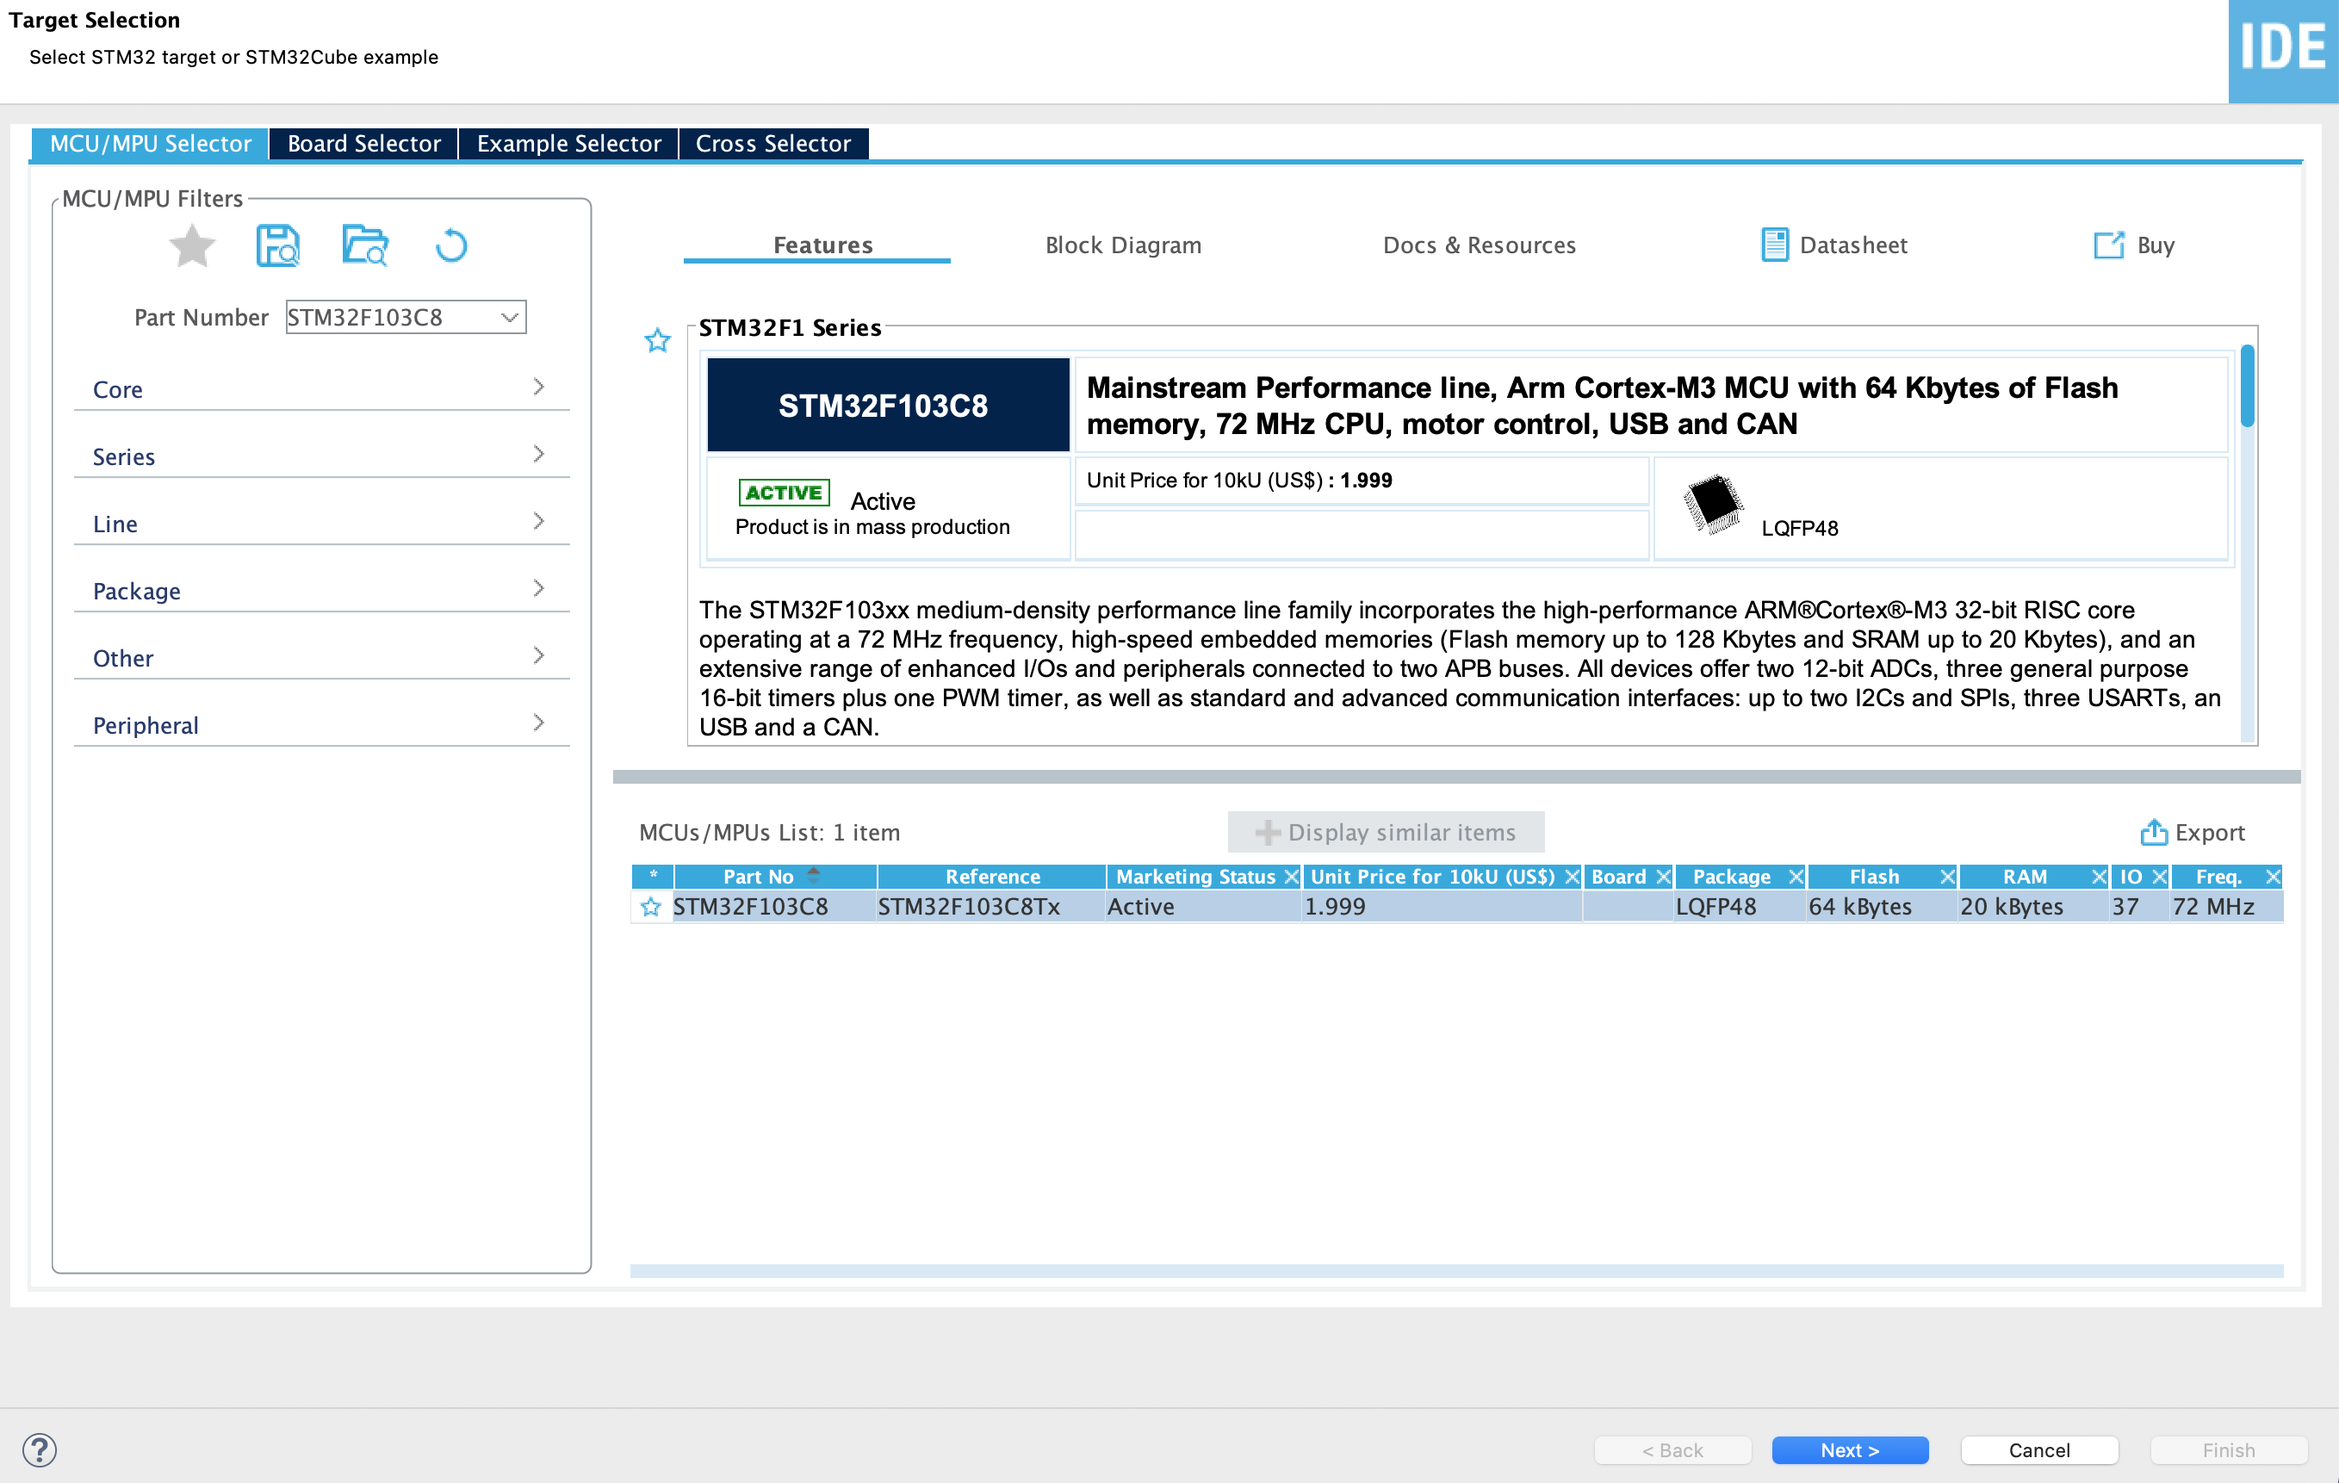
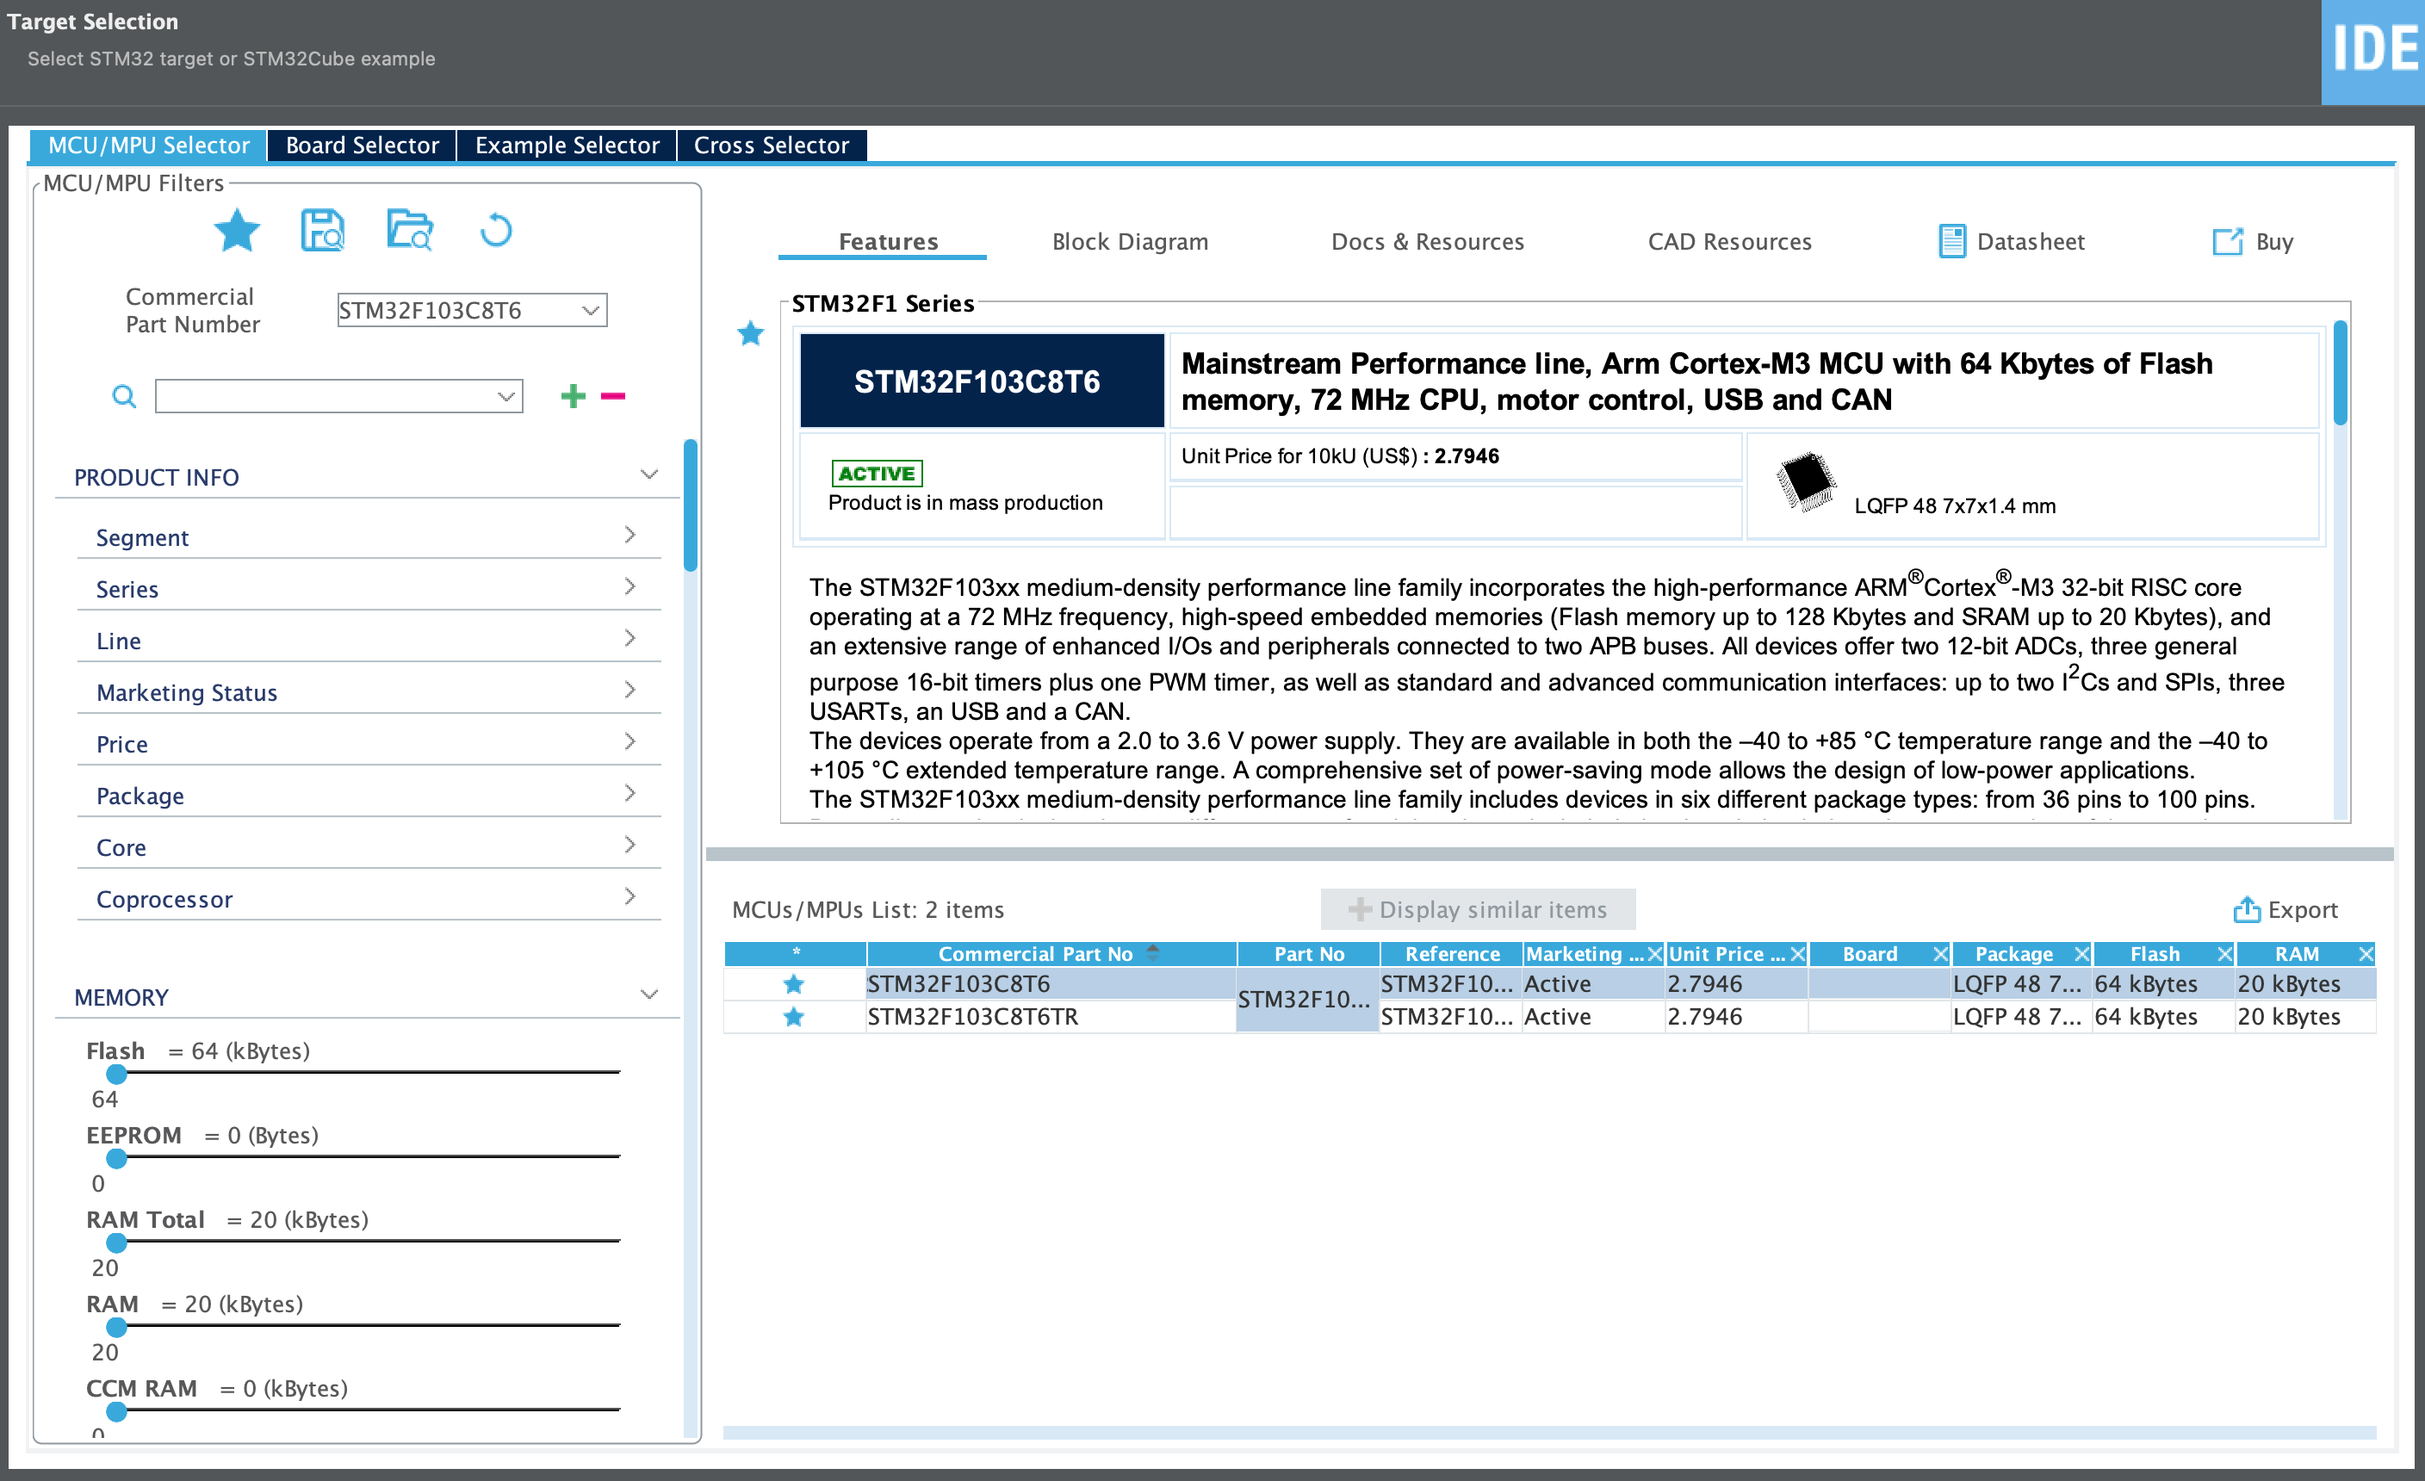
Deployed d1b9dd0 with MkDocs version: 1.4.2

diff --git a/lab1/lab1_guide/index.html b/lab1/lab1_guide/index.html
@@ -354,6 +354,26 @@
     2 连线
   </a>
   
+    <nav class="md-nav" aria-label="2 连线">
+      <ul class="md-nav__list">
+        
+          <li class="md-nav__item">
+  <a href="#21-基本连线" class="md-nav__link">
+    2.1 基本连线
+  </a>
+  
+</li>
+        
+          <li class="md-nav__item">
+  <a href="#22-跳线帽" class="md-nav__link">
+    2.2 跳线帽
+  </a>
+  
+</li>
+        
+      </ul>
+    </nav>
+  
 </li>
       
         <li class="md-nav__item">
@@ -877,6 +897,26 @@
     2 连线
   </a>
   
+    <nav class="md-nav" aria-label="2 连线">
+      <ul class="md-nav__list">
+        
+          <li class="md-nav__item">
+  <a href="#21-基本连线" class="md-nav__link">
+    2.1 基本连线
+  </a>
+  
+</li>
+        
+          <li class="md-nav__item">
+  <a href="#22-跳线帽" class="md-nav__link">
+    2.2 跳线帽
+  </a>
+  
+</li>
+        
+      </ul>
+    </nav>
+  
 </li>
       
         <li class="md-nav__item">
@@ -974,13 +1014,15 @@
 
 <h1 id="实验1指南">实验1指南<a class="headerlink" href="#实验1指南" title="Permanent link">&para;</a></h1>
 <h2 id="1-安装软件">1 安装软件<a class="headerlink" href="#1-安装软件" title="Permanent link">&para;</a></h2>
-<p>在ST公司官网下载<a href="https://www.st.com/zh/development-tools/stm32cubeide.html">STM32CubeIDE</a>。这个IDE是基于Eclipse改造的，有Windows、macOS和Linux三个版本。下载时需要注册一个st的帐号，免费的，校网邮箱可用。</p>
-<p>下载后，以默认选项安装。</p>
-<p>对于macOS，解压zip文件后，打开dmg文件，首先双击pkg文件安装ST-Link驱动，然后将app文件拖拽到Application。安装驱动时，需要在“系统偏好设置&rarr;安全性与隐私”处允许允许这个安装程序。第一次运行STM32CubeIDE时，也需要允许运行一次。</p>
+<p>具体见<a href="../warmup.md">Warm Up</a>。</p>
 <h2 id="2-连线">2 连线<a class="headerlink" href="#2-连线" title="Permanent link">&para;</a></h2>
-<p>找出4条杜邦线，要求其中一条红色、一条黑色，另两条其他不同的颜色。</p>
-<p><em>对特定的信号/电源使用特殊的颜色是工程和实验技术的基础要求。至少要求做到电源使用红色，地使用黑色，并且不将红色和黑色用于其他线路。</em></p>
-<p>杜邦线的一头连接103板子侧面的标着GND、DCLK、DIO、3.3V的四个插针，另一头接ST-Link的(2)SWCLK、(4)SWDIO、(6)GND、(8)3.3V。在ST-Link的插针处，有缺口的一侧是奇数，另一侧是偶数。</p>
+<h3 id="21-基本连线">2.1 基本连线<a class="headerlink" href="#21-基本连线" title="Permanent link">&para;</a></h3>
+<p>找出4条杜邦线，要求其中一条红色、一条黑色，另两条为其他颜色。</p>
+<div class="admonition info">
+<p class="admonition-title">对特定的信号/电源使用特殊的颜色是工程和实验技术的基础要求。要求至少做到电源使用红色，地使用黑色，并且不将红色和黑色用于其他线路。</p>
+</div>
+<p>在ST-Link的插针处，有缺口的一侧是奇数，另一侧是偶数。</p>
+<p>杜邦线的一头连接103板子侧面的标着GND、DCLK、DIO、3.3V的四个插针，另一头接ST-Link的 (2) SWCLK、(4) SWDIO、(6) GND、(8) 3.3V。</p>
 <p>连线的对应关系如下表：</p>
 <table>
 <thead>
@@ -1018,21 +1060,28 @@
 </tr>
 </tbody>
 </table>
-<p><img src="../img/1-1.jpeg" style="zoom: 10%;" />
-<img src="../img/1-4.jpeg" style="zoom: 10%;" />
-<img src="../img/1-2.jpeg" style="zoom: 10%;" /></p>
-<p>右图103上的杜邦线的连接，使得四条线的小开口都朝一个方向，这样不仅是美观，最主要的是可以方便将来有必要的时候，用表笔接触这个小开口来做测量。</p>
-<blockquote>
-<p>以这个方式连接，ST-Link是在给103供电。但是ST-Link内的3.3V只能供给大约50mA的电流，所以这只适合于烧录程序和不接其他模块时的简单调试场合。实际工作时，应该使用USB插座或其他外部电源直接给5V或3.3V引脚供电。</p>
-</blockquote>
-<p>在103板上有两个黄色跳线帽，右边分别标着BT0和BT1。这里上下两排各三个插针是两组，上下各一组。两个跳线帽都应该插在左边的两个插针上，如下图所示。这样的话，跳线帽起到把中间的插针和左边的插针连起来的作用。<em>103板的正确方向是主芯片面朝上，USB插座朝左，引脚的文字正确。</em></p>
+<p>连线示意图如下：</p>
+<p><img src="../img/1-5.jpeg" style="zoom: 20%;" /></p>
+<p>连线实物图如下：</p>
+<p><img src="../img/1-2.jpeg" style="zoom: 10%;" /></p>
+<p><img src="../img/1-1.jpeg" style="zoom: 10%;" /></p>
+<p><img src="../img/1-4.jpeg" style="zoom: 10%;" /></p>
+<p>上面几幅图中，4条杜邦线的小开口都朝着同一个方向，除了美观之外，还可以在需要时，方便地用表笔接触这个小开口来做测量。</p>
+<div class="admonition info">
+<p class="admonition-title">在使用上述方式连接时，103板子的供电全部来自ST-Link。但ST-Link内部3.3V的电压只能供给大约50mA的电流。因此这种方式只适用于烧录程序以及不接其他模块时的简单调试场合。在世纪工作时，应使用USB插座或其他外部电源直接给5V或3.3V引脚供电</p>
+</div>
+<h3 id="22-跳线帽">2.2 跳线帽<a class="headerlink" href="#22-跳线帽" title="Permanent link">&para;</a></h3>
+<p>在103板上有两个黄色跳线帽：BT0和BT1。此处有上下两组插针，每组共三个，两个跳线帽应都插在 <strong>左边的两个插针</strong> 上，如下图所示。跳线帽起到将左边和中间插针连起来的作用。</p>
 <p><img src="../img/1-3.jpeg" style="zoom: 25%;" /></p>
-<p>在后面的操作中，如果出现了烧录不进去的情况，BT0这个跳线帽可能要拔下来插到中间和右边的插针上去。</p>
+<div class="admonition info">
+<p class="admonition-title">103板的正确方向为主芯片面朝上，USB插座朝左，引脚文字正常可读。</p>
+</div>
+<p>在之后的操作中，若出现无法烧录的情况，跳线帽BT0可能需要拔下来插到中间和右边的插针上。这往往是由于<a href="#43-调试">Debug选项</a>没有正确设置导致的。具体操作方式见<a href="#43-调试">故障排除</a>。</p>
 <h2 id="3-建立工程">3 建立工程<a class="headerlink" href="#3-建立工程" title="Permanent link">&para;</a></h2>
 <p>启动Cube IDE，选择“Start new STM32 project”。</p>
 <p><img src="../img/3-1.png" alt="3-1" style="zoom: 33%;" /></p>
 <p>如果已经启动过Cube IDE，则在菜单选择“File-&gt;New -&gt;STM32 Project“。</p>
-<p>在“Target Selection”的“Part Number”，输入“STM32F103C8”，然后在右边的“MCUs/MPUs List”那里，点击出现的“Part No”为“STM32F103C8”的列表项。这样右下方的“Next”才会亮起来。</p>
+<p>在“Target Selection”的“Part Number”，输入“STM32F103C8T6”，然后在右边的“MCUs/MPUs List”那里，点击出现的“Part No”为“STM32F103C8T6”的列表项。这样右下方的“Next”才会亮起来。</p>
 <p><img src="../img/3-2.png" alt="3-2" style="zoom:25%;" /></p>
 <p>点击“Next”，然后在“STM32 Project”对话框里，输入工程名称，如“blink”。然后就可以直接点击“Finish”了。</p>
 <p><img src="../img/3-3.png" alt="3-3" style="zoom:33%;" /></p>

diff --git a/warm_up/index.html b/warm_up/index.html
@@ -285,8 +285,8 @@
     <ul class="md-nav__list" data-md-component="toc" data-md-scrollfix>
       
         <li class="md-nav__item">
-  <a href="#stm32cubeide的安装" class="md-nav__link">
-    STM32CubeIDE的安装
+  <a href="#stm32cubeide-安装" class="md-nav__link">
+    STM32CubeIDE 安装
   </a>
   
 </li>
@@ -782,8 +782,8 @@
     <ul class="md-nav__list" data-md-component="toc" data-md-scrollfix>
       
         <li class="md-nav__item">
-  <a href="#stm32cubeide的安装" class="md-nav__link">
-    STM32CubeIDE的安装
+  <a href="#stm32cubeide-安装" class="md-nav__link">
+    STM32CubeIDE 安装
   </a>
   
 </li>
@@ -807,7 +807,24 @@
 
 
 <h1 id="课前准备">课前准备<a class="headerlink" href="#课前准备" title="Permanent link">&para;</a></h1>
-<h2 id="stm32cubeide的安装">STM32CubeIDE的安装<a class="headerlink" href="#stm32cubeide的安装" title="Permanent link">&para;</a></h2>
+<h2 id="stm32cubeide-安装">STM32CubeIDE 安装<a class="headerlink" href="#stm32cubeide-安装" title="Permanent link">&para;</a></h2>
+<blockquote>
+<p>STM32CubeIDE是ST公司提供的一款集成开发环境（IDE），用于开发STM32系列的MCU。此IDE基于Eclipse改造，支持Windows，MacOS以及Linux。Lab1-5均需要在此IDE上完成。</p>
+</blockquote>
+<ul>
+<li>下载方式：<a href="https://www.st.com/zh/development-tools/stm32cubeide.html">ST公司官网</a><ul>
+<li>下载需要注册ST公司的账号，可用校园网邮箱免费注册。</li>
+</ul>
+</li>
+<li>安装方式：以默认选项安装即可</li>
+<li>注意事项：IDE安装包中附带ST-Link驱动，若安装程序未自动安装，请手动安装。</li>
+<li>对于MacOS用户：<ul>
+<li>解压zip文件后，打开dmg文件，首先双击pkg文件安装ST-Link驱动，然后将app文件拖拽到Applications文件夹中。</li>
+<li>安装驱动时，需要在“系统偏好设置&rarr;安全性与隐私”处允许允许这个安装程序。</li>
+<li>第一次运行STM32CubeIDE时，需要 <strong>在Applications文件夹中右键点击STM32CubeIDE.app，选择“打开”，然后在弹出的窗口中点击“打开”。</strong> 若直接双击运行，会提示“STM32CubeIDE.app”已损坏，无法打开。这是由于macOS的安全机制导致的，需要手动允许运行一次。</li>
+</ul>
+</li>
+</ul>
 
 
 

diff --git a/index.html b/index.html
@@ -835,11 +835,11 @@
 <h1 id="嵌入式系统">嵌入式系统<a class="headerlink" href="#嵌入式系统" title="Permanent link">&para;</a></h1>
 <p>你好👋！欢迎来到嵌入式系统课程！</p>
 <p>本实验文档适用于2022-2023春夏学期 <strong>计算机科学与技术学院</strong> 《嵌入式系统》 <strong>翁凯老师</strong> 班级。</p>
-<p>💡请在第一次实验课前安装<code>STM32CubeIDE</code>，具体方式见<a href="warm_up/">Warm Up</a>。</p>
+<p>💡在第一次实验课之前，请先完成<a href="warm_up/">Warm Up</a>中安装 STM32CubeIDE 的步骤。</p>
 <h2 id="实验日历">实验日历<a class="headerlink" href="#实验日历" title="Permanent link">&para;</a></h2>
 <p>本课程共包含7个个人实验和1个组队大程。</p>
 <p>所有的个人实验均需 <strong>验收</strong> 并提交 <strong>实验报告</strong> 。</p>
-<p>组队大程需要进行 <strong>阶段性验收</strong> 并提交 <strong>阶段性报告</strong> ，最后还需要进行 <strong>最终验收</strong> 并提交 <strong>最终报告</strong> 。组队方案以及大程具体要求见<a href="group_project.md">Group Project</a>。</p>
+<p>组队大程需要进行 <strong>阶段性验收</strong> 并提交 <strong>阶段性报告</strong> ，最后还需要进行 <strong>最终验收</strong> 并提交 <strong>最终报告</strong> 。组队方案以及大程具体要求见<a href="project/">Group Project</a>。</p>
 <div class="admonition warning">
 <p class="admonition-title">上传实验报告时，必须单独提交实验报告的pdf文件。如有其他文件需要提交，可以另外打包成zip文件。</p>
 </div>
@@ -855,7 +855,7 @@
 </ul>
 </li>
 <li>组队大程<ul>
-<li><a href="group_project.md">Group Project</a></li>
+<li><a href="project/">Group Project</a></li>
 </ul>
 </li>
 </ul>

diff --git a/lab1/lab1/index.html b/lab1/lab1/index.html
@@ -906,7 +906,7 @@
 
 <h1 id="实验1-亮灯">实验1: 亮灯<a class="headerlink" href="#实验1-亮灯" title="Permanent link">&para;</a></h1>
 <p>这是第一次实验，目的在于熟悉硬件板卡，了解今后实验的基本配置、编程的基本手段和程序下载运行的方式。</p>
-<p>本实验配有<a href="../lab1_guide/">实验指南</a>。</p>
+<p>本实验配有详细的<a href="../lab1_guide/">实验指南</a>。</p>
 <h2 id="实验目的">实验目的<a class="headerlink" href="#实验目的" title="Permanent link">&para;</a></h2>
 <ol>
 <li>了解嵌入式板卡一般情况；</li>
